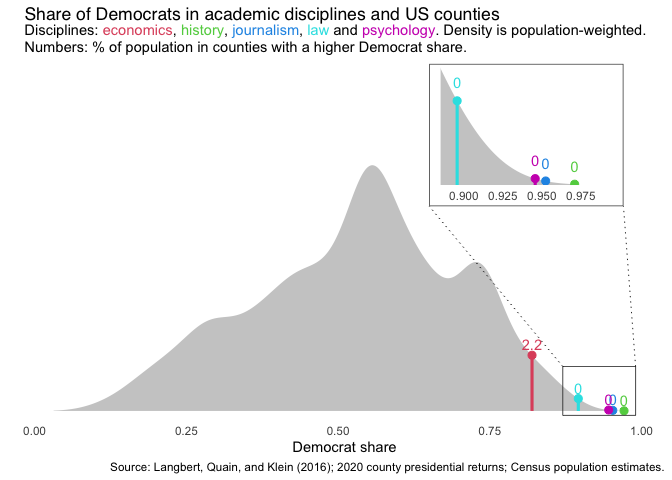
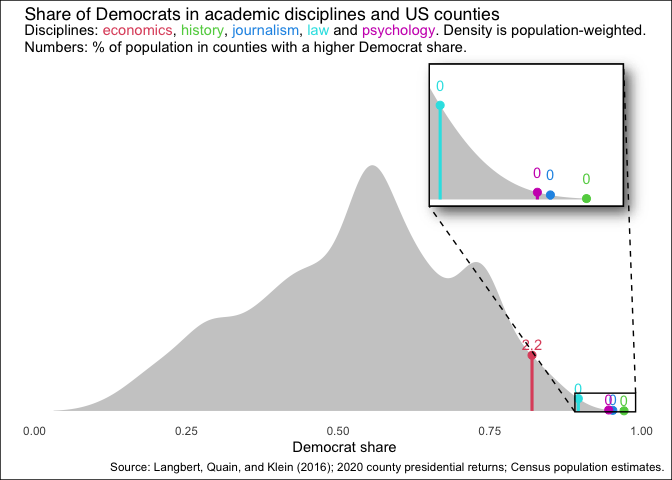
Use ggmagnify

diff --git a/README.md b/README.md
@@ -31,6 +31,13 @@ engineering faculty.
 
 # FAQ
 
+- How did you make those cool plots?
+
+  After writing the first version of this, I was inspired to create a
+  [little R package](https://github.com/hughjonesd/ggmagnify) for making
+  insets in ggplot plots. Don’t say the culture war never gave you
+  anything!
+
 - Is this satire?
 
   A little bit, yes. But the data is real.
